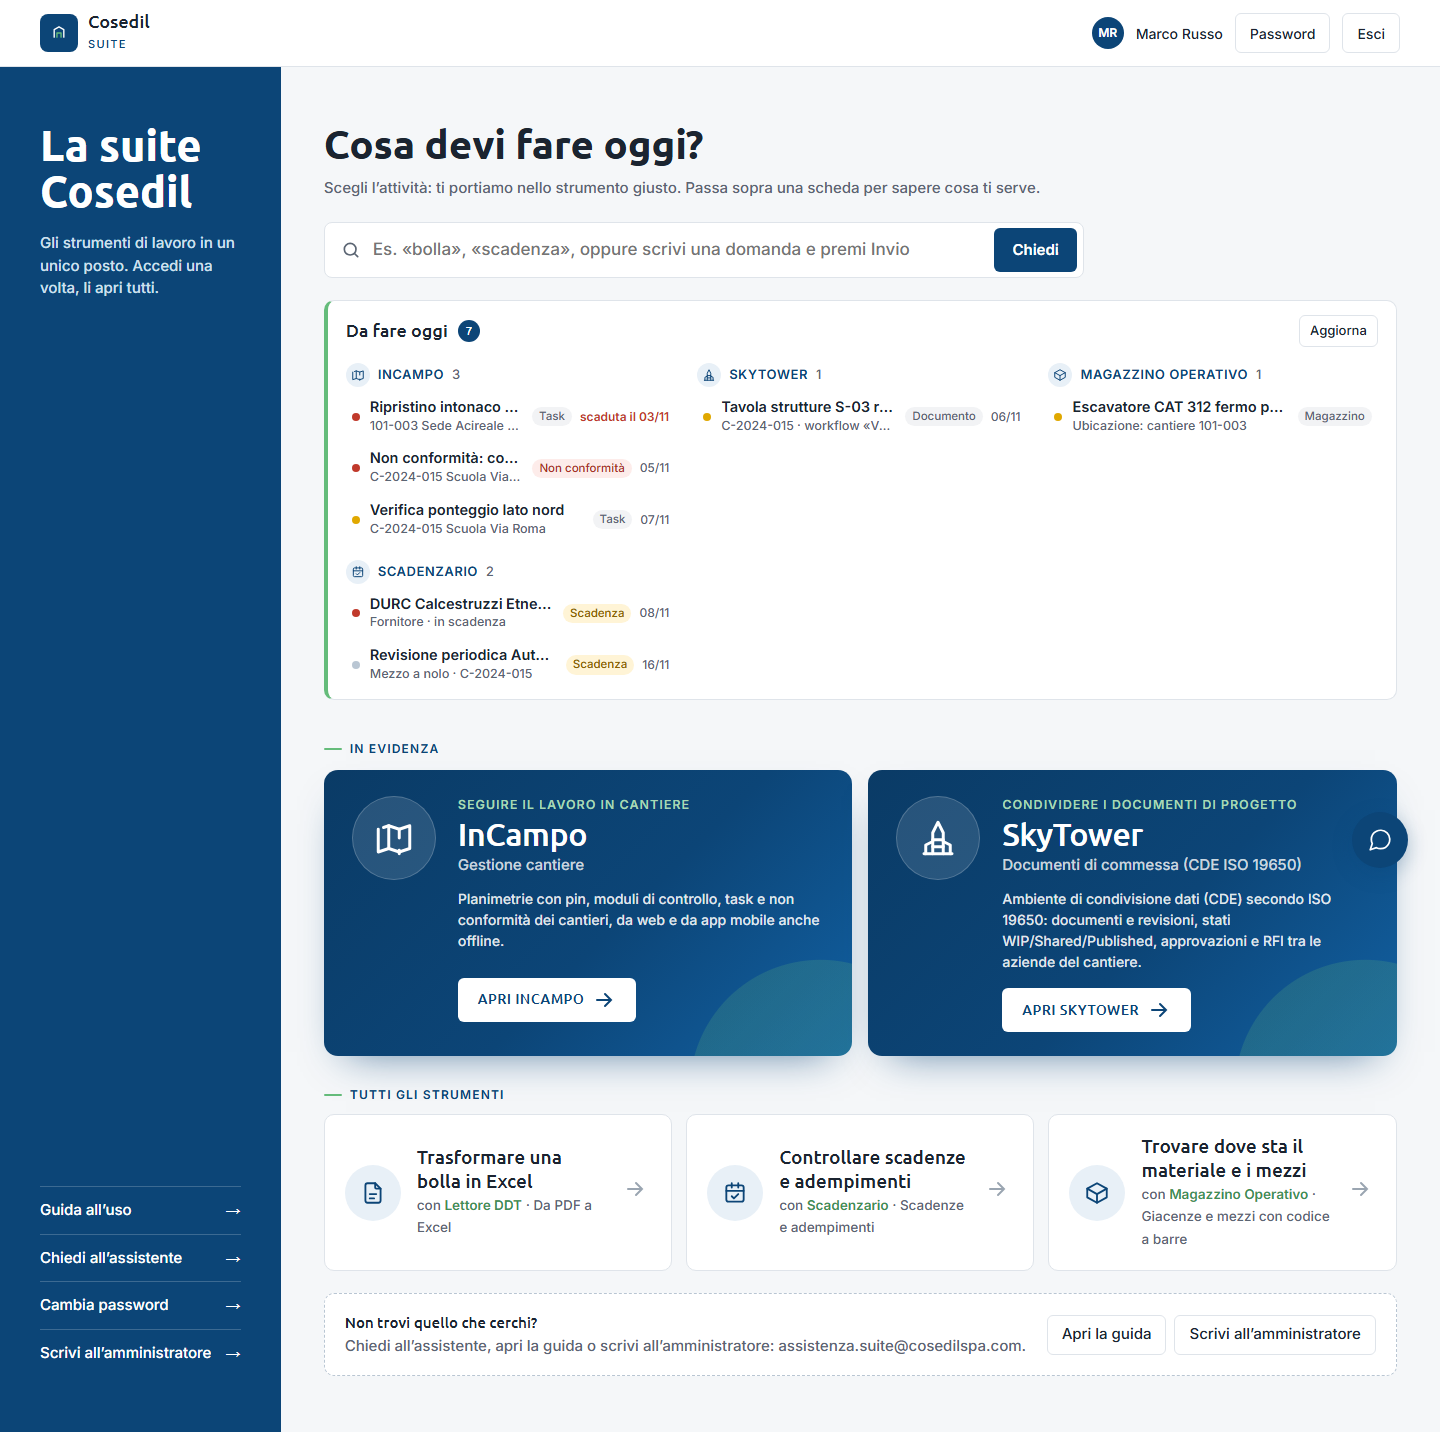
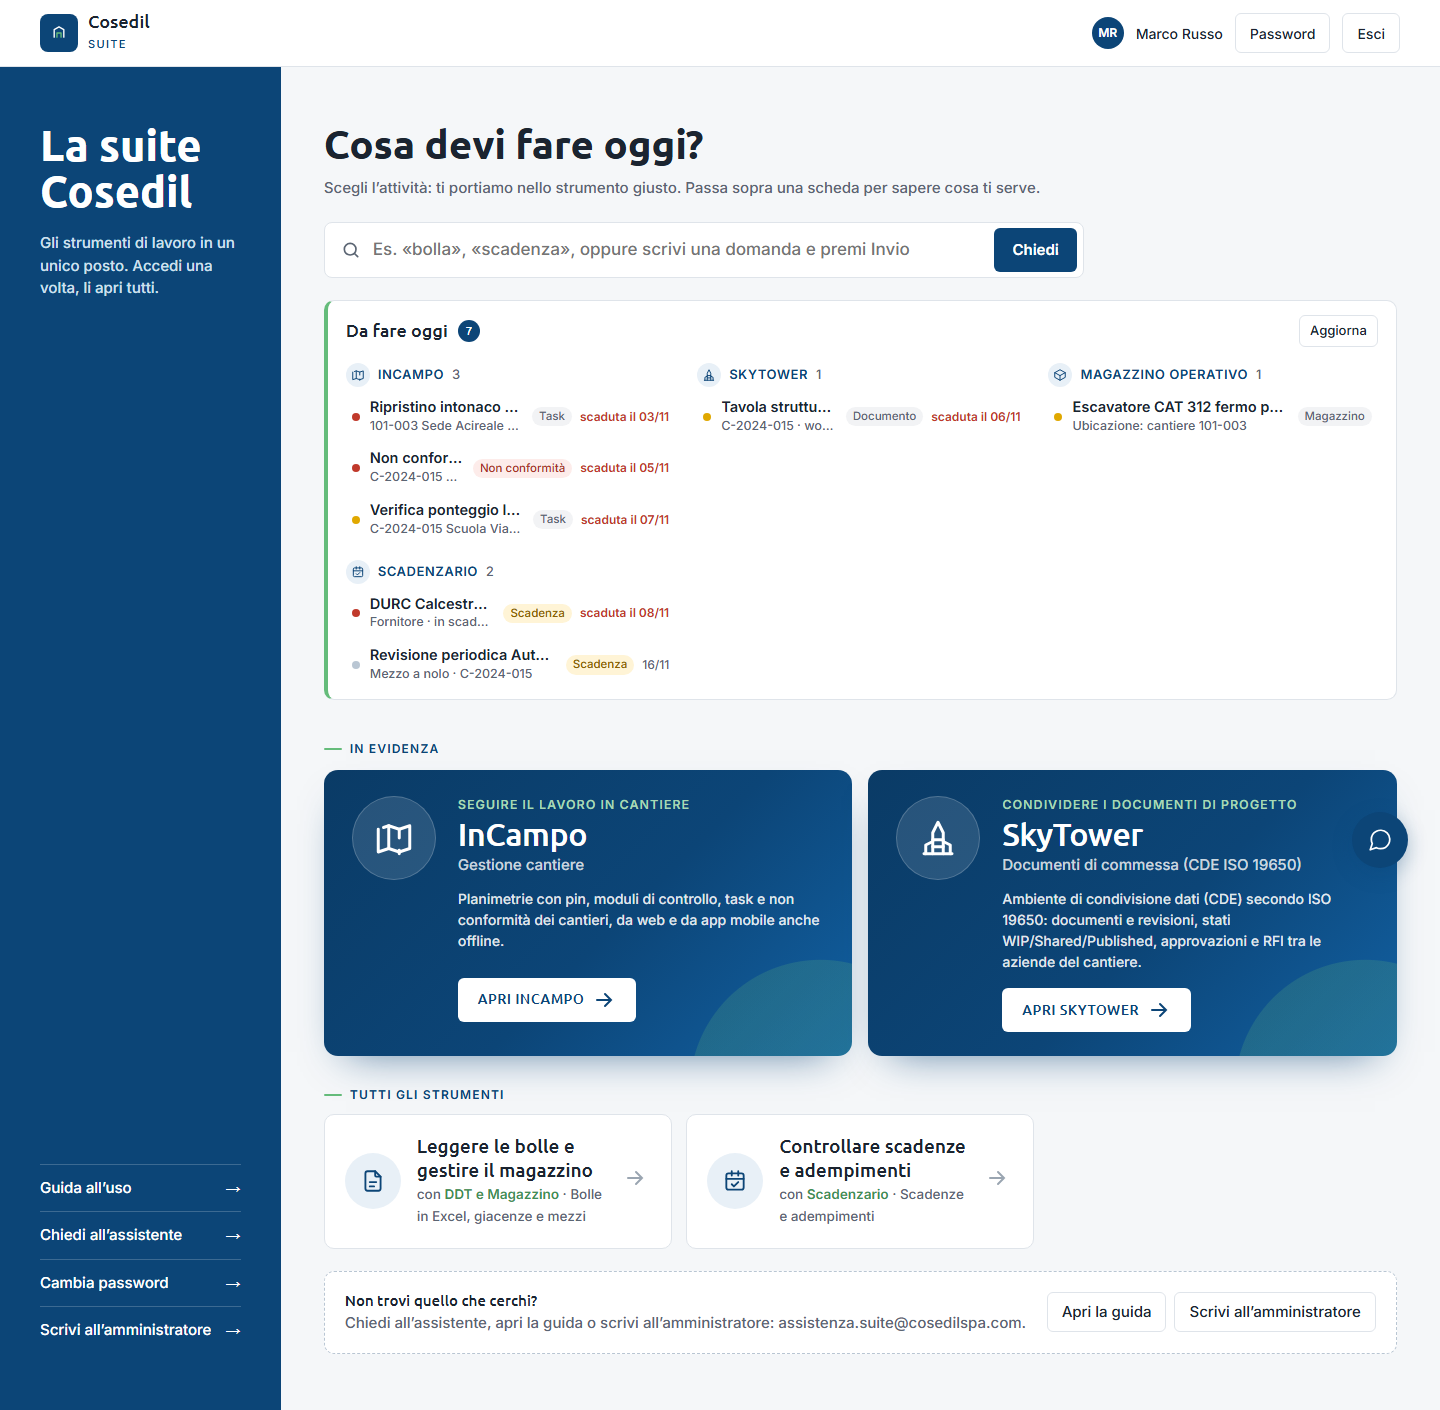
feat(portale): tessera unica "DDT e Magazzino" che comprende il Magazzino
APPS: 'ddt' diventa "DDT e Magazzino" (comprende: ['magazzino'], testi e parole dell'assistente uniti);
'magazzino' ha dentro: 'ddt' (niente tessera in home, plancia e assistente; resta per abilitazioni, da fare,
commesse). accessoApp: la tessera (e /api/verify) per chi è abilitato a uno dei due. Guida §1.7, README,
commesse e immagini 06/08/09 rifatte da un portale di prova con dati inventati.
Verifica: node --test 107/107 (+1 sull'accesso; descriviUtente col nuovo nome).

diff --git a/portale/server.js b/portale/server.js
@@ -107,21 +107,31 @@ const LOGIN_LOCK_MS = 15 * 60 * 1000;
 //         che compare passando sopra la scheda.
 // principale — true per le app di punta (InCampo, SkyTower): nella home degli
 //         utenti stanno in alto, in grande, sopra tutte le altre.
+//
+// comprende / dentro (09/11/2026, "DDT e Magazzino"): un programma per chi lo usa può contenerne un
+// altro. 'ddt' comprende 'magazzino': una tessera sola, che vede chi è abilitato all'uno O all'altro
+// (accessoApp); 'magazzino' sta dentro 'ddt': niente tessera in home né voce nell'assistente, ma l'id
+// resta nel registro per abilitazioni, "da fare", importazione commesse e avvio interno. Il Lettore
+// DDT avvia da sé il Magazzino e lo mostra sotto /magazzino/ del suo indirizzo.
 const APPS = [
   {
     id: 'ddt',
-    nome: 'Lettore DDT',
-    sottotitolo: 'Da PDF a Excel',
-    fai: 'Trasformare una bolla in Excel',
-    guida: 'Tieni a portata di mano il PDF della bolla: lo carichi, controlli i dati estratti e scarichi il foglio Excel pronto.',
-    desc: 'Converte i documenti di trasporto (DDT) da PDF a Excel. Gestione utenti, template e storico versioni.',
+    nome: 'DDT e Magazzino',
+    sottotitolo: 'Bolle in Excel, giacenze e mezzi',
+    fai: 'Leggere le bolle e gestire il magazzino',
+    guida: 'All’ingresso scegli la commessa. Carichi il PDF della bolla e scarichi l’Excel: PDF ed Excel vanno in SkyTower e i materiali entrano subito in magazzino. Dalla barra in alto passi al Magazzino: giacenze, mezzi e scansioni anche dal telefono.',
+    desc: 'Converte i documenti di trasporto (DDT) da PDF a Excel e tiene il magazzino: i materiali delle bolle diventano carichi del cantiere, giacenze e mezzi si cercano con il codice a barre. Tutto nella commessa scelta all’ingresso, con archivio in SkyTower.',
     porta: 5050,
     dir: 'lettore-ddt',
     launch: 'avvia.vbs',
-    tipo: 'Node.js',
-    kw: ['lettore ddt', 'lettore', 'ddt suite', 'ddt', 'documento di trasporto', 'documenti di trasporto', 'bolla', 'bolle',
-      'excel', 'xlsx', 'foglio di calcolo', 'template', 'fornitore', 'fornitori', 'trasporto'],
-    dettaglio: 'Prende i documenti di trasporto in PDF e li trasforma in fogli Excel. Gestisce gli utenti, i template di estrazione per ogni fornitore e lo storico delle versioni.',
+    tipo: 'Node.js + Python',
+    comprende: ['magazzino'],
+    kw: ['ddt e magazzino', 'lettore ddt', 'lettore', 'ddt suite', 'ddt', 'documento di trasporto', 'documenti di trasporto', 'bolla', 'bolle',
+      'excel', 'xlsx', 'foglio di calcolo', 'template', 'fornitore', 'fornitori', 'trasporto',
+      'magazzino', 'magazzino operativo', 'giacenza', 'giacenze', 'scorta', 'scorte', 'codice a barre', 'barcode',
+      'qr', 'etichetta', 'etichette', 'scanner', 'materiale', 'materiali', 'mezzi', 'mezzo', 'nolo',
+      'deposito', 'inventario', 'carico', 'scarico', 'ubicazione'],
+    dettaglio: 'È un programma solo con due sezioni. Nel Lettore DDT carichi i documenti di trasporto in PDF e li trasformi in fogli Excel, con i template di estrazione per ogni fornitore. Nel Magazzino vedi dove sta il materiale e quanto ce n\'è, e dove stanno i mezzi, scansionando il codice a barre anche con la fotocamera del telefono. La commessa la scegli una volta all\'ingresso: il PDF e l\'Excel di ogni bolla finiscono in SkyTower e i materiali diventano subito carichi del cantiere in magazzino.',
   },
   {
     id: 'agente',
@@ -263,6 +273,8 @@ const APPS = [
     dir: 'magazzino-operativo',
     launch: 'avvia.vbs',
     tipo: 'Python',
+    // Dal 09/11/2026 sta dentro "DDT e Magazzino" (vedi il commento sopra APPS): niente tessera propria.
+    dentro: 'ddt',
     kw: ['magazzino', 'magazzino operativo', 'giacenza', 'giacenze', 'scorta', 'scorte', 'codice a barre', 'barcode',
       'qr', 'etichetta', 'etichette', 'scansione', 'scanner', 'materiale', 'materiali', 'mezzi', 'mezzo', 'nolo',
       'deposito', 'inventario', 'carico', 'scarico', 'ubicazione'],
@@ -1611,6 +1623,12 @@ function appsPredefinite() {
 // gate SSO delle app. Nascondere solo la card lascerebbe l'app aperta a chi ne
 // conosce l'indirizzo — che in LAN è una porta su un host noto.
 function accessoApp(app, session) {
+  if (accessoDiretto(app, session)) return true;
+  // Un programma che ne comprende altri ("DDT e Magazzino" comprende il Magazzino): basta essere
+  // abilitati a uno di quelli dentro. Vale per la tessera e per /api/verify, cioè per il gate SSO.
+  return !!(app && Array.isArray(app.comprende) && app.comprende.some((id) => accessoDiretto(APPS.find((a) => a.id === id), session)));
+}
+function accessoDiretto(app, session) {
   if (!app || !session) return false;
   if (isAdminForApp(session, 'portale')) return true;
   if (app.adminOnly) return false;
@@ -1618,6 +1636,9 @@ function accessoApp(app, session) {
   if (isAdminForApp(session, app.id)) return true;
   return appsUtente(session.username).includes(app.id);
 }
+
+// Programmi con una tessera propria (home, plancia, assistente): non quelli che stanno dentro un altro.
+const conTessera = (app) => !app.dentro;
 
 // Le app che si possono assegnare a un utente dall'area Amministrazione: tutte
 // tranne le adminOnly, che seguono il ruolo e non le spunte.
@@ -2530,7 +2551,7 @@ async function handle(req, res) {
   // ---- Elenco app ----
   if (p === '/api/apps') {
     return sendJson(res, 200, {
-      apps: APPS.filter(canSeeApp).map((a) => ({
+      apps: APPS.filter((a) => conTessera(a) && canSeeApp(a)).map((a) => ({
         id: a.id, nome: a.nome, sottotitolo: a.sottotitolo, desc: a.desc,
         fai: a.fai, guida: a.guida,   // home utenti: l'attività e il suggerimento al passaggio del mouse
         porta: a.porta, tipo: a.tipo, url: appUrl(req, a),
@@ -2546,7 +2567,7 @@ async function handle(req, res) {
   if (p === '/api/chat' && req.method === 'POST') {
     const { domanda } = await readJsonBody(req);
     const q = String(domanda || '').slice(0, 500);   // domande lunghe: tagliate
-    return sendJson(res, 200, rispondiAssistente(q, APPS.filter(canSeeApp), { emailAdmin: emailAdmin() }));
+    return sendJson(res, 200, rispondiAssistente(q, APPS.filter((a) => conTessera(a) && canSeeApp(a)), { emailAdmin: emailAdmin() }));
   }
 
   // ---- Stato app ----

diff --git a/portale/server.test.js b/portale/server.test.js
@@ -18,6 +18,8 @@ process.env.DATA_DIR = DATA_TMP;
 fs.writeFileSync(path.join(DATA_TMP, 'utenti.json'), JSON.stringify([
   { username: 'mrossi', nome: 'Mario Rossi', ruolo: 'utente', apps: ['requisiti'] },
   { username: 'gverdi', nome: 'Giulia Verdi', ruolo: 'utente' },
+  // abilitata solo al Magazzino: vede la tessera "DDT e Magazzino" (09/11/2026)
+  { username: 'tneri', nome: 'Tea Neri', ruolo: 'utente', apps: ['magazzino'] },
 ]));
 test.after(() => fs.rmSync(DATA_TMP, { recursive: true, force: true }));
 
@@ -294,6 +296,21 @@ test("accessoApp: admin del portale e admin per-IP di quell'app entrano comunque
   assert.ok(accessoApp(riservata, admin), "admin del portale");
   assert.ok(accessoApp(riservata, { username: 'gverdi', ruolo: 'utente', adm: ['requisiti'] }), 'admin per-IP');
   assert.equal(accessoApp(riservata, { username: 'ignoto', ruolo: 'utente', adm: [] }), false, 'utente che non esiste più');
+});
+
+// "DDT e Magazzino" (09/11/2026): una tessera sola, che comprende il Magazzino. La vede (e ci entra:
+// la stessa funzione risponde a /api/verify) chi è abilitato a uno dei due; il Magazzino non ha più
+// una tessera propria ma resta nel registro (abilitazioni, "da fare", commesse).
+test("accessoApp: 'DDT e Magazzino' per chi è abilitato al Lettore DDT o al Magazzino", () => {
+  const ddt = APPS.find((a) => a.id === 'ddt');
+  const magazzino = APPS.find((a) => a.id === 'magazzino');
+  assert.deepEqual(ddt.comprende, ['magazzino']);
+  assert.equal(magazzino.dentro, 'ddt');
+  const soloMagazzino = { username: 'tneri', ruolo: 'utente', adm: [] };
+  assert.ok(accessoApp(ddt, soloMagazzino), 'abilitata al magazzino: vede la tessera unica');
+  assert.ok(accessoApp(magazzino, soloMagazzino));
+  assert.equal(accessoApp(ddt, conElenco), false, 'mrossi ha solo requisiti: niente DDT e Magazzino');
+  assert.ok(accessoApp(ddt, senzaElenco), 'default: tutti e due');
 });
 
 test("appsUtente: elenco esplicito, default per chi non ce l'ha", () => {
@@ -924,7 +941,7 @@ test('freno al login: lo stato finisce su file (condiviso fra 8080 e 8090)', () 
 const { verificaPasswordApp, trovaUtentePerLogin, ipValido } = require('./server.js');
 
 // Utenti con password vera (scrypt come makeUser), aggiunti per questi test e poi tolti:
-// gli altri test leggono utenti.json e si aspettano solo mrossi e gverdi.
+// gli altri test leggono utenti.json e si aspettano solo mrossi, gverdi e tneri.
 function conUtentiPassword(fn) {
   const file = path.join(DATA_TMP, 'utenti.json');
   const prima = fs.readFileSync(file, 'utf8');
@@ -1052,7 +1069,7 @@ test('descriviUtente: nome, ruolo, email e programmi, senza segreti', () => {
   const u = { username: 'mrossi', nome: 'Mario Rossi', ruolo: 'admin', email: 'm.rossi@esempio.it',
     apps: ['ddt', 'skytower'], salt: 'abc', hash: 'segreto' };
   const d = descriviUtente(u);
-  assert.equal(d, 'mrossi (Mario Rossi), amministratore, email m.rossi@esempio.it, programmi: Lettore DDT, SkyTower');
+  assert.equal(d, 'mrossi (Mario Rossi), amministratore, email m.rossi@esempio.it, programmi: DDT e Magazzino, SkyTower');
   assert.doesNotMatch(d, /segreto|abc/);
   // senza elenco proprio (segue il default) e senza email: solo chi è
   assert.equal(descriviUtente({ username: 'gverdi', nome: 'Gino Verdi', ruolo: 'utente' }), 'gverdi (Gino Verdi), utente');

diff --git a/portale/docs/guida/README.md b/portale/docs/guida/README.md
@@ -2,8 +2,8 @@
 # Guida al Portale della Suite Cosedil
 
 Il **Portale** è la porta d'ingresso di tutti i programmi Cosedil. Entri una volta sola con
-il tuo nome utente e la tua password, e da lì apri InCampo, SkyTower, Magazzino,
-Scadenzario, Lettore DDT e gli altri strumenti senza dover rifare l'accesso in ognuno.
+il tuo nome utente e la tua password, e da lì apri InCampo, SkyTower, DDT e Magazzino,
+Scadenzario e gli altri strumenti senza dover rifare l'accesso in ognuno.
 
 ![La pagina iniziale del Portale](img/06-home.png)
 
@@ -38,9 +38,8 @@ Scadenzario, Lettore DDT e gli altri strumenti senza dover rifare l'accesso in o
 |---|---|---|
 | **InCampo** | Il lavoro in cantiere: planimetrie, moduli di controllo, task e non conformità, anche da telefono | [guida di InCampo](../../../incampo/docs/guida/README.md) |
 | **SkyTower** | I documenti di commessa (disegni, relazioni, revisioni e approvazioni) | [guida di SkyTower](../../../skytower/docs/guida/README.md) |
-| **Magazzino Operativo** | Dove sta il materiale e dove sono i mezzi, con codice a barre | [guida del Magazzino](../../../magazzino-operativo/docs/guida/README.md) |
 | **Scadenzario** | Scadenze e adempimenti: DURC, revisioni, polizze, corsi | [guida dello Scadenzario](../../../scadenzario/docs/guida/README.md) |
-| **Lettore DDT** | Da una bolla in PDF a un foglio Excel | [guida del Lettore DDT](../../../lettore-ddt/docs/guida/README.md) |
+| **DDT e Magazzino** | Un programma con due sezioni: il **Lettore DDT** (da una bolla in PDF a un foglio Excel, archiviati in SkyTower) e il **Magazzino** (dove sta il materiale e dove sono i mezzi, con codice a barre). La commessa si sceglie all'ingresso | [guida del Lettore DDT](../../../lettore-ddt/docs/guida/README.md), [guida del Magazzino](../../../magazzino-operativo/docs/guida/README.md) |
 | **Confronto Documenti**, **OCR Documenti**, **Analista Dati**, **Verifica Requisiti** | Confrontare due PDF, leggere documenti scansionati, fare domande sui dati, controllare i documenti contrattuali | dentro ciascun programma |
 | **Timbri per VFP** | Da un'immagine PNG (firma, logo, timbro) a un file `.stamp` per le annotazioni di VFP | [README di Timbri per VFP](../../../timbri-vfp/README.md) |
 | **Ponte Trimble**, **Auguri** | Strumenti solo per gli amministratori | dentro ciascun programma |

diff --git a/portale/README.md b/portale/README.md
@@ -62,7 +62,7 @@ npm test
 
 ## Le applicazioni della suite
 
-- **Lettore DDT** — da PDF a Excel — porta `5050`
+- **DDT e Magazzino** — Lettore DDT (da PDF a Excel) e Magazzino Operativo in un programma solo — porta `5050`, il Magazzino sotto `/magazzino/` (dal 09/11/2026: tessera unica `ddt` con `comprende: ['magazzino']`; il Magazzino ha `dentro: 'ddt'` e niente tessera propria, ma resta nel registro per abilitazioni, "da fare" e commesse; chi è abilitato a uno dei due vede la tessera)
 - **Analista Dati** — interrogazione dati con AI — porta `5173`
 - **Confronto Documenti** — raffronto documenti con OCR — porta `5001`
 - **OCR Documenti** — OCR ed estrazione — porta `5179`
@@ -163,7 +163,7 @@ Le app della suite condividono la sessione del portale: inoltrano il cookie del 
 
 La password del portale vale in ogni programma (06/11/2026); le password proprie dei programmi restano valide come riserva.
 
-- **Analista Dati** e **Lettore DDT** aprono da soli la sessione dell'account con lo stesso username del portale (Analista lo crea se manca; DDT no, perché ogni account DDT ha la sua commessa).
+- **Analista Dati** e **Lettore DDT** aprono da soli la sessione dell'account con lo stesso username del portale (Analista lo crea se manca; DDT no: gli account DDT li crea l'amministratore). In **DDT e Magazzino** la commessa si sceglie all'ingresso dal registro della suite.
 - **SkyTower**, **InCampo** (anche l'app per telefono) e **VFP Transfer**, quando la loro password non coincide, chiedono al portale `POST /api/verifica-password` (header `X-Suite-Token`, corpo `{ login, password, app, ip }`; funzione `verificaPasswordApp` in `server.js`). Il portale riconosce la persona da username o email, applica gli stessi blocchi del login (sull'IP della persona, passato dal programma), rifiuta account disattivati, password temporanee non ancora cambiate e programmi non abilitati, e scrive `login-app` nel registro accessi.
 - Dettagli e codici di risposta: `shared/suite/CONTRATTI.md` §2b; guida utente §1.8.
 

diff --git a/portale/docs/guida/01-entrare.md b/portale/docs/guida/01-entrare.md
@@ -103,13 +103,16 @@ l'accesso.
 
 Una volta entrato nel Portale, i programmi ti riconoscono da soli:
 
-- **Scadenzario, Magazzino, Confronto Documenti, Timbri per VFP** e gli altri strumenti si
+- **Scadenzario, Confronto Documenti, Timbri per VFP** e gli altri strumenti si
   aprono già con il tuo nome, senza un secondo accesso.
 - **Analista Dati** ti fa entrare con l'utente che ha il tuo stesso username; la prima
   volta lo crea da solo.
-- **Lettore DDT** ti fa entrare da solo se c'è un utente DDT con il tuo stesso username.
-  Gli utenti DDT li crea l'amministratore, perché ognuno lavora su una commessa: se non
-  ce n'è uno col tuo nome, entri con l'utente della commessa che ti hanno dato.
+- **DDT e Magazzino** (dal 9 novembre 2026 un programma solo, con due sezioni) ti chiede
+  all'ingresso **in che commessa lavori**: la scegli una volta dall'elenco delle commesse della
+  suite e vale finché non la cambi dalla barra in alto. La sezione **Magazzino** si apre già
+  con il tuo nome. La sezione **Lettore DDT** ti fa entrare da sola se c'è un utente DDT con il
+  tuo stesso username (gli utenti DDT li crea l'amministratore); se non c'è, entri con l'utente
+  della commessa che ti hanno dato, e intanto il magazzino lo puoi usare lo stesso.
 - **InCampo** e **SkyTower** hanno utenti propri. Ti riconoscono dall'**email** che
   l'amministratore ha associato al tuo utente del Portale (oppure da
   `username@cosedilspa.com`). Se l'email non coincide esattamente, ti chiedono di entrare

diff --git a/portale/docs/guida/05-commesse.md b/portale/docs/guida/05-commesse.md
@@ -53,5 +53,6 @@ Perché tutto funzioni il codice deve essere **lo stesso** in:
 - le commesse di **InCampo**;
 - la scheda *Suite Cosedil* dei progetti **SkyTower**;
 - le ubicazioni del **Magazzino**;
-- l'utente del **Lettore DDT** (il DDT finito va nella commessa giusta di SkyTower);
+- la commessa scelta all'ingresso in **DDT e Magazzino** (il DDT finito va nella commessa giusta
+  di SkyTower e i suoi materiali nel cantiere giusto del Magazzino): l'elenco è questo registro;
 - le scadenze dello **Scadenzario** legate a una commessa.
